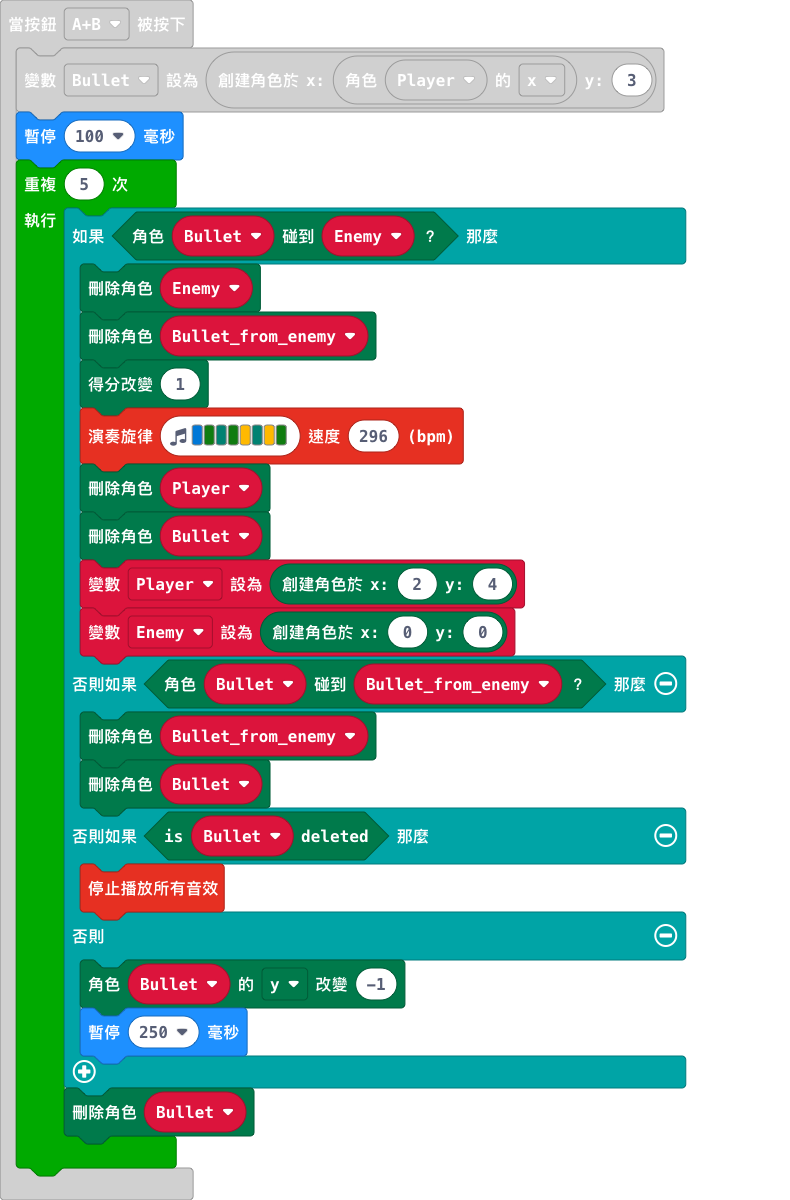
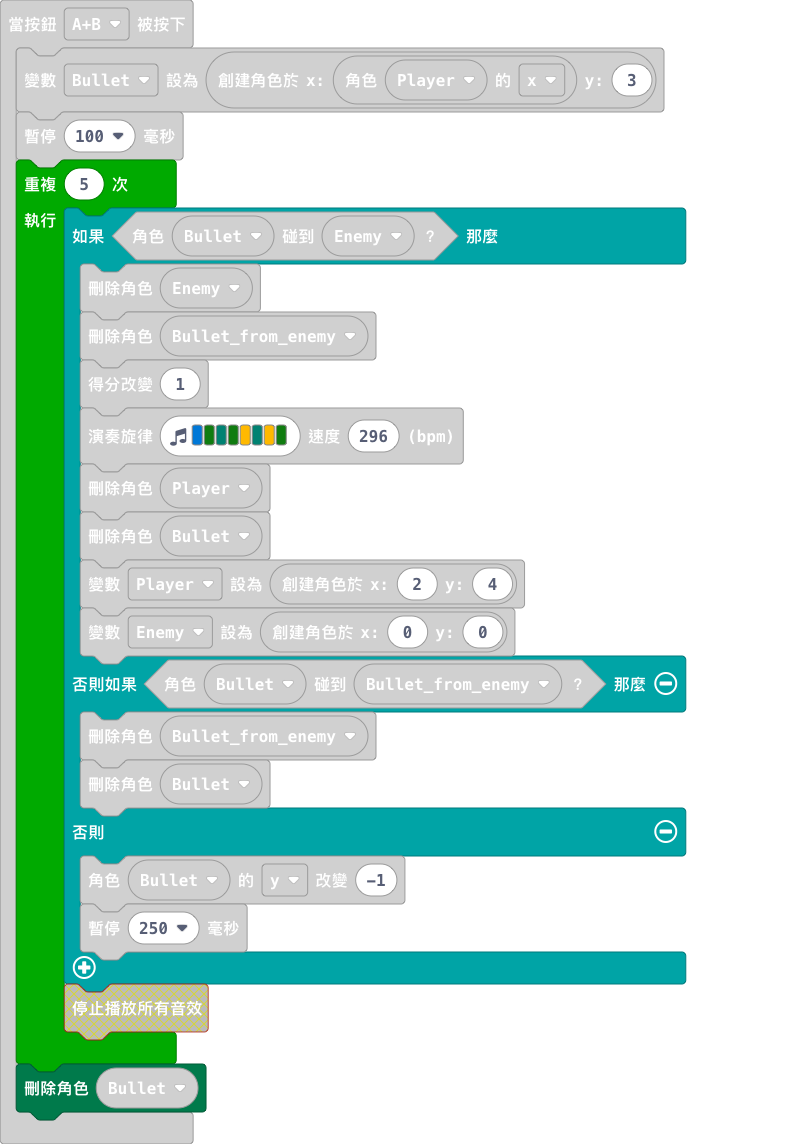
更新 main.blocks, main.ts

diff --git a/main.ts b/main.ts
@@ -57,14 +57,12 @@ input.onButtonPressed(Button.AB, function () {
         } else if (Bullet.isTouching(Bullet_from_enemy)) {
             Bullet_from_enemy.delete()
             Bullet.delete()
-        } else if (Bullet.isDeleted()) {
-            music.stopAllSounds()
         } else {
             Bullet.change(LedSpriteProperty.Y, -1)
             basic.pause(250)
         }
-        Bullet.delete()
     }
+    Bullet.delete()
 })
 input.onButtonPressed(Button.B, function () {
     Player.change(LedSpriteProperty.X, 1)
